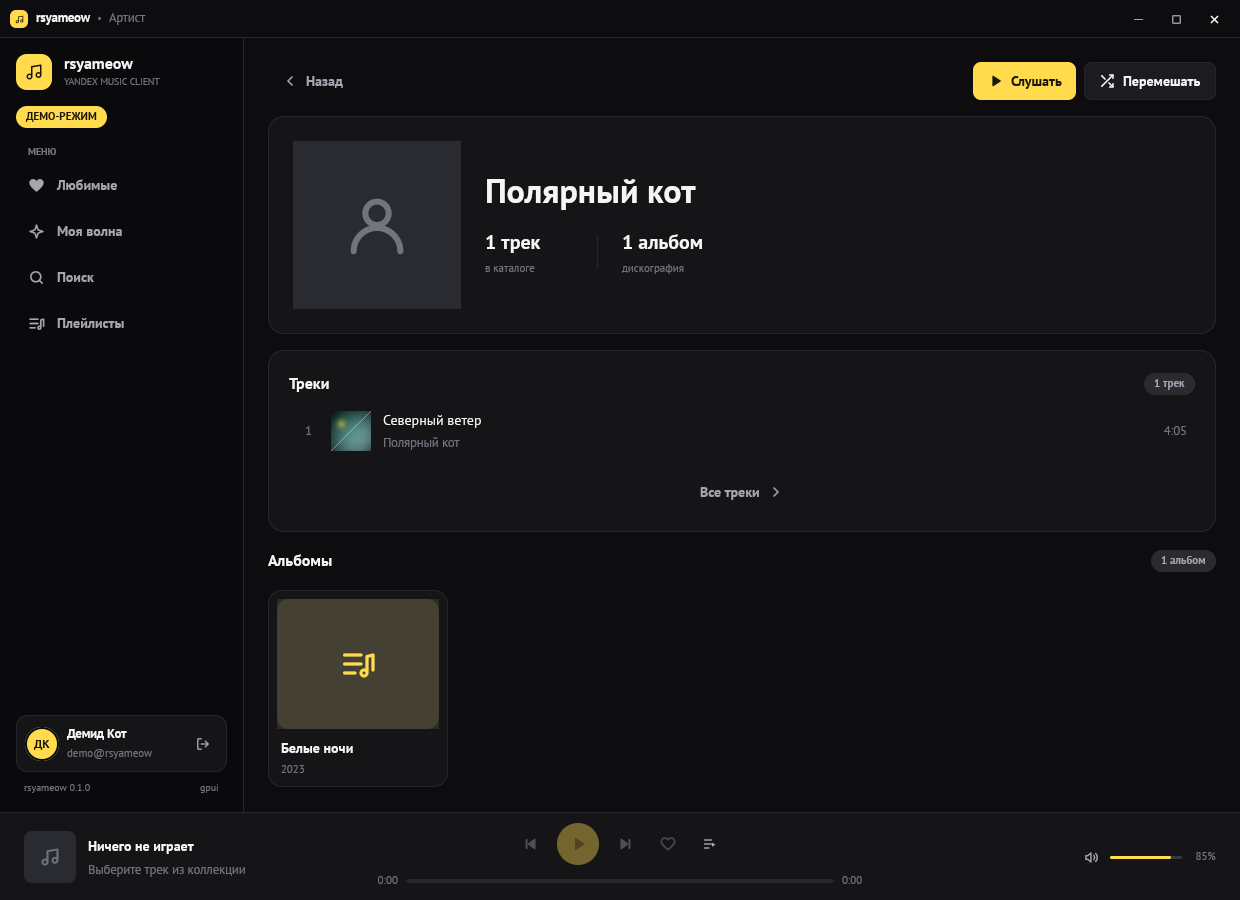
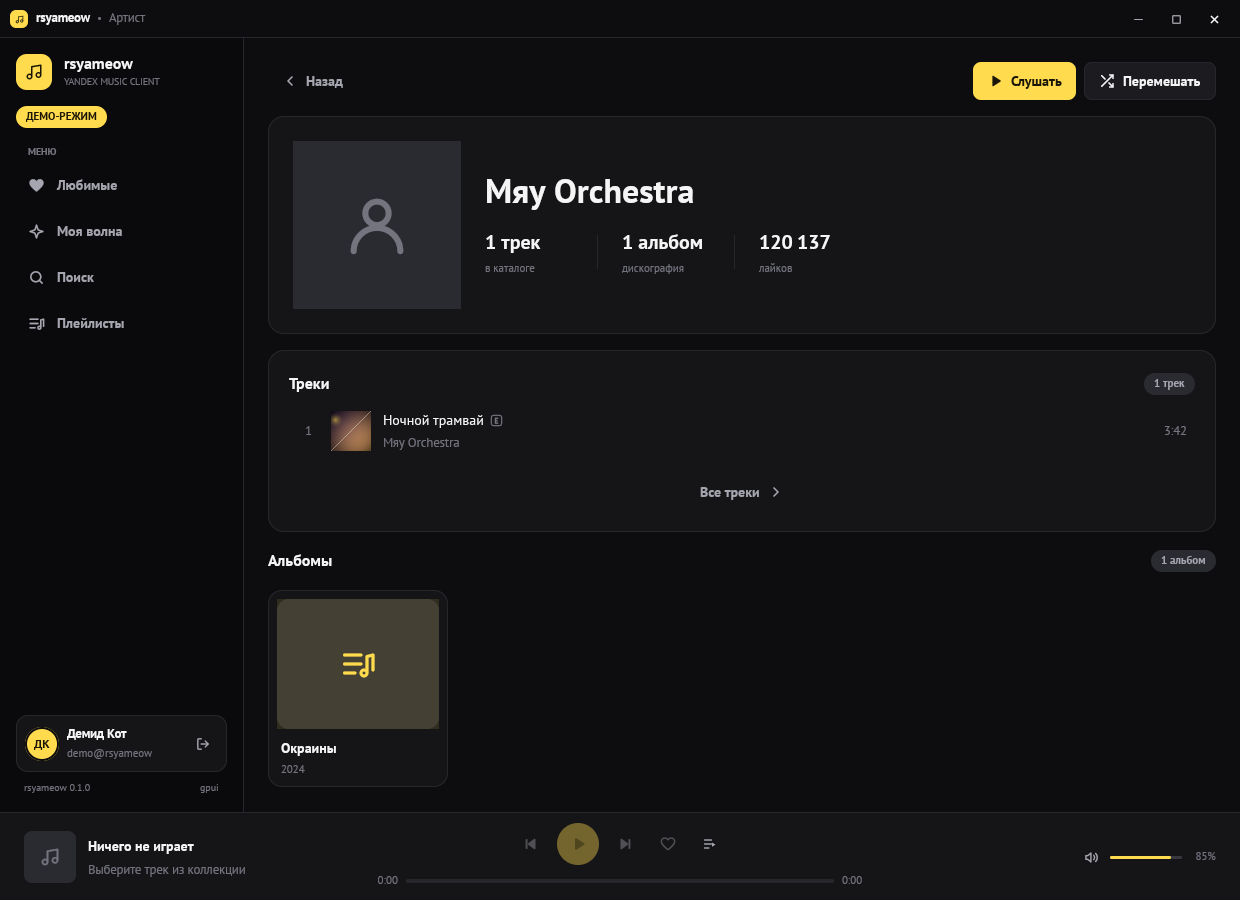
Document lyrics, explicit badges and preloading

diff --git a/README.md b/README.md
@@ -29,20 +29,26 @@
 - **Поиск по каталогу.** Вкладки «Треки», «Исполнители» и «Альбомы»,
   пагинация и обложки. Клик по исполнителю открывает его страницу, по
   альбому — страницу альбома. В демо-режиме поиск работает локально.
-- **Страницы артиста и альбома.** Обложка, жанры и счётчики артиста; на
-  странице артиста видны первые 10 треков и горизонтальная лента из 10 альбомов.
+- **Страницы артиста и альбома.** Обложка, жанры и счётчики артиста (включая
+  количество лайков); на странице артиста видны первые 10 треков и
+  горизонтальная лента из 10 альбомов.
   Футеры «Все треки» и «Все альбомы» открывают отдельные вкладки с полной
   дискографией. Страница альбома — треки, год, длительность и переход к
   артисту. Навигация «назад» возвращает на предыдущий экран.
 - **Страница трека.** Открывается кликом по текущему треку в плеере или по
-  названию в любом списке (без запуска воспроизведения): обложка, исполнители
-  и альбом со ссылками, качество, длительность и позиция. Фон — переливающийся
-  градиент из цветов обложки с размытой подложкой; карточки данных полупрозрачные
-  с димом. Для треков без обложки используется жёлтая палитра Яндекса.
+  названию в любом списке (без запуска воспроизведения). Компактный хедер:
+  обложка, название, исполнитель и альбом со ссылками, длительность и, для
+  текущего трека, позиция прослушивания. Ниже загружается текст песни, если он
+  есть; при его отсутствии блок не показывается. Дублирующая карточка «О треке»
+  убрана. Фон — переливающийся градиент из цветов обложки с размытой подложкой;
+  карточки с димом. Для треков без обложки используется жёлтая палитра Яндекса.
 - **Моя волна.** Персональный поток `user:onyourwave`: полноэкранный постер
   текущего трека с крупной обложкой, переключением, лайком и прогрессом.
   Описание и список очереди скрыты. Следующая партия догружается автоматически,
-  а уже знакомые треки отфильтровываются, чтобы очередь не ломалась.
+  а уже знакомые треки отфильтровываются, чтобы очередь не ломалась. Текущий,
+  предыдущий и следующий треки предзагружаются в фоне, поэтому переключения
+  почти мгновенные. При перезапуске текущий трек и его обложка тоже загружаются
+  заранее.
 - **Случайный трек.** Кнопка выбирает случайную композицию из «Мне нравится»,
   получает подписанный файл (FLAC, если доступен, иначе MP3) и запускает
   воспроизведение.
@@ -57,7 +63,8 @@
   [rodio](https://github.com/RustAudio/rodio).
 - **Списки треков.** Название открывает страницу трека, имя исполнителя —
   страницу артиста. У текущего трека вместо номера анимированный эквалайзер;
-  при наведении на строку слева появляется кнопка Play.
+  при наведении на строку слева появляется кнопка Play. Треки с explicit
+  помечены значком `E` в списках, очереди, плеере и на странице трека.
 - **Демо-режим.** Полноценный интерфейс с вымышленными треками, обложками и
   симуляцией воспроизведения — без сети и токена. Удобно для скриншотов и
   разработки UI.
@@ -67,8 +74,9 @@
   серверных декораций.
 - **Сохранение состояния.** При следующем запуске восстанавливаются экран
   (включая страницы артиста/альбома/трека/плейлиста и выбранный трек),
-  поисковый запрос, очередь, текущий трек и позиция. Трек восстанавливается на паузе и загружается по
-  кнопке Play. Состояние хранится в `state.json` с правами `0600`.
+  поисковый запрос, очередь, текущий трек и позиция. Трек восстанавливается на
+  паузе, его обложка и аудио предзагружаются, а Play запускает почти сразу.
+  Состояние хранится в `state.json` с правами `0600`.
 - **Адаптивное окно.** Раскладка перестраивается при изменении размера
   (карточки аккаунта и подписки становятся одноколоночными), а размер окна
   запоминается между запусками в `window.json`. Громкость сохраняется в
@@ -99,7 +107,7 @@
 </p>
 
 <p>
-  <img src="docs/screenshots/track.png" width="49%" alt="Страница трека с градиентом">
+  <img src="docs/screenshots/track.png" width="49%" alt="Страница трека с текстом песни">
   <img src="docs/screenshots/queue.png" width="49%" alt="Очередь воспроизведения">
 </p>
 
@@ -220,13 +228,14 @@ cargo build --release -p rsyameow
 | Варианты загрузки | `GET /tracks/{id}/download-info` |
 | Подписанная ссылка MP3 | XML + MD5-подпись `get-mp3/{sign}/{ts}{path}` |
 | Lossless-файл | `GET /get-file-info` + HMAC-SHA256-подпись desktop-клиента |
+| Текст трека | `GET /tracks/{id}/lyrics` + подписанная ссылка на текст |
 | Обложки | `https://<coverUri>` |
 
 Портируются модели `Account`, `Status`, `Permissions`, `Plus`, `Subscription`,
 `Track`, `TrackShort`, `TracksList`, `Artist`, `ArtistTracks`, `ArtistAlbums`,
 `Album`, `Pager`, `Playlist`, `User`, `WaveBatch`, `WaveSequence`, `Cover`,
-`SearchResult`, `DownloadInfo`, `FileInfo`, `FileDownloadInfo`, `DeviceCode`,
-`OAuthToken`. Формат запросов и подписи прямых ссылок повторяет
+`SearchResult`, `TrackLyrics`, `LyricsMajor`, `DownloadInfo`, `FileInfo`,
+`FileDownloadInfo`, `DeviceCode`, `OAuthToken`. Формат запросов и подписи прямых ссылок повторяет
 [`MarshalX/yandex-music-api`](https://github.com/MarshalX/yandex-music-api).
 
 Пример использования:
@@ -265,8 +274,8 @@ cargo fmt --all --check
 Клиент тестируется на локальном HTTP-сервере без внешней сети: проверяются
 разбор ответов, повторяющиеся поля формы, OAuth pending/success, коды ошибок,
 поиск треков/исполнителей/альбомов, плейлисты, лайки, страницы артистов и
-альбомов, «Моя волна», построение MD5- и HMAC-подписей, lossless-загрузка и
-обложки. Авторизация device flow дополнительно проверена вручную против
+альбомов, «Моя волна», текст трека, построение MD5- и HMAC-подписей,
+lossless-загрузка и обложки. Авторизация device flow дополнительно проверена вручную против
 настоящего OAuth-сервера Яндекса. Живые сценарии требуют токена и в CI не
 запускаются.
 
@@ -286,9 +295,12 @@ cargo fmt --all --check
 - На странице артиста показываются первые 10 треков и 10 альбомов, а вкладки
   «Все треки»/«Все альбомы» догружают до 1000 записей; более длинную
   дискографию API приходится листать вручную за пределами клиента.
-- На странице трека нет текста песни, клипа и похожих треков. Градиент
-  считается по обложке; для однотонных обложек используется жёлтый акцент,
-  а размытие подложки — программное, без backdrop-filter.
+- На странице трека нет клипа и похожих треков. Градиент считается по обложке;
+  для однотонных обложек используется жёлтый акцент, а размытие подложки —
+  программное, без backdrop-filter.
+- Признака lossless нет в ответах поиска и списков треков: его можно узнать
+  только отдельным запросом `/get-file-info`. Поэтому иконки lossless в списках
+  нет; качество показывается бейджем в плеере и на странице трека после загрузки.
 - В плейлисте отображаются первые 50–100 треков (столько отдаёт API за один
   запрос); пагинация плейлиста пока не сделана.
 - Во вкладке «Любимые» показываются 24 последних трека, хотя счётчик отражает
